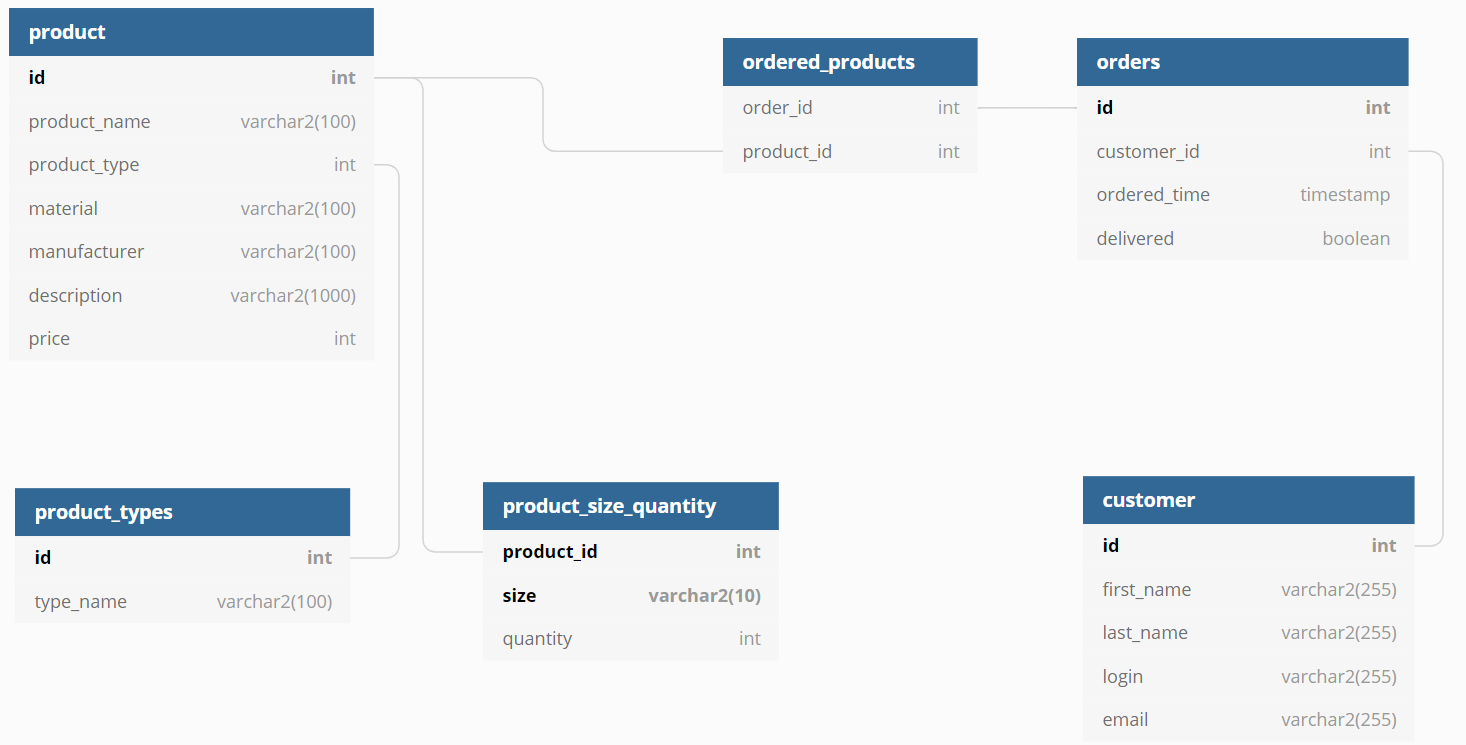
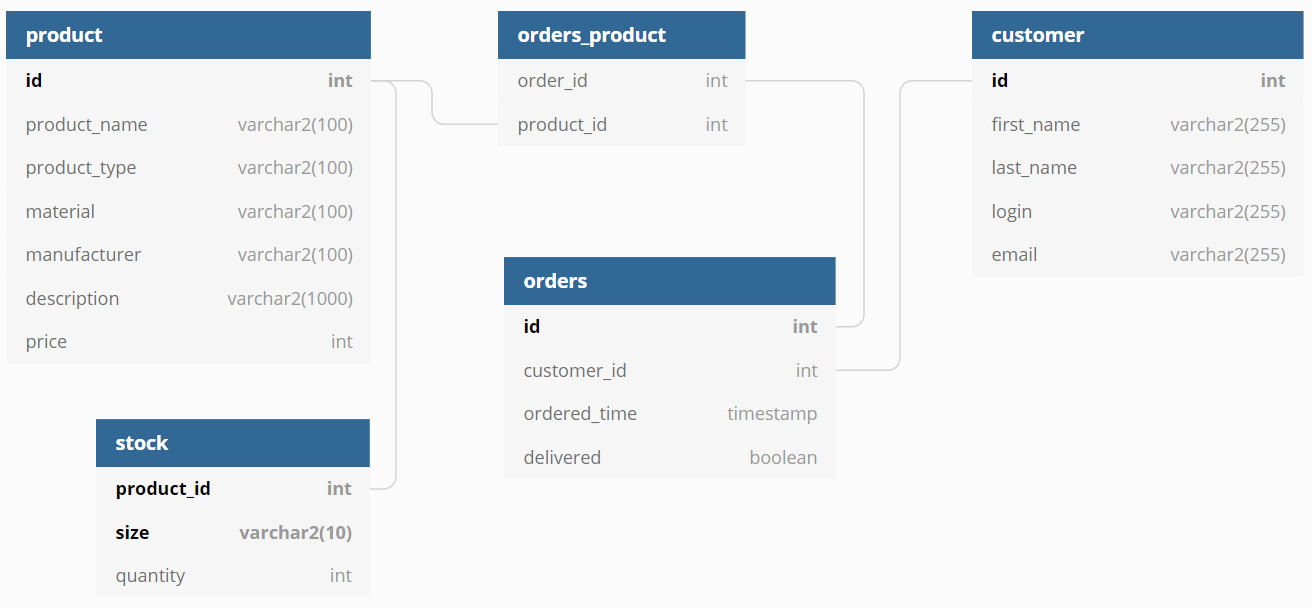
Общие изменения
Добавлен контроллер, позволяющий п р а в и л ь н о остановить приложение.

Добавлен README.

Исправлена пикча со структурой БД.

diff --git a/src/main/java/ru/study/shop/adapters/controllers/ApplicationController.java b/src/main/java/ru/study/shop/adapters/controllers/ApplicationController.java
@@ -1,0 +1,24 @@
+package ru.study.shop.adapters.controllers;
+
+import org.springframework.boot.SpringApplication;
+import org.springframework.context.ApplicationContext;
+import org.springframework.stereotype.Controller;
+import org.springframework.web.bind.annotation.GetMapping;
+import org.springframework.web.bind.annotation.RequestMapping;
+
+@Controller
+@RequestMapping("/shop/app")
+public class ApplicationController {
+
+    private static final int DEFAULT_SHUTDOWN_CODE = 0;
+    private ApplicationContext applicationContext;
+
+    public ApplicationController(ApplicationContext applicationContext) {
+        this.applicationContext = applicationContext;
+    }
+
+    @GetMapping("/shutdown")
+    public void shutdownApplication() {
+        SpringApplication.exit(applicationContext, () -> DEFAULT_SHUTDOWN_CODE);
+    }
+}

diff --git a/README.md b/README.md
@@ -1,0 +1,109 @@
+# Введение
+
+## Что это?
+
+shop-app-backend — мой pet-project, представляющий собой backend-часть интернет-магазина одежды.
+
+## А зачем?
+
+<ul>
+<li>Для получения опыта <s>какой-никакой</s> энтерпрайз-разработки;</li>
+<li>Для изучения инструментов и технологий в рамках уже существующего решения;</li>
+<li>Для возможности иметь проект, 
+    с которым можно проводить любые манипуляции и не иметь проблем с совестью;</li>
+<li><s>Для включения в резюме.</s></li>
+</ul>
+
+## Концепция
+
+За основу взята идея создания интернет-магазина одежды. Функционал приложения должен позволять:
+<ul>
+<li>получать информацию о текущем ассортименте магазина;</li>
+<li>формировать заказы на покупку;</li>
+<li>управлять складскими запасами ассортимента.</li>
+</ul>
+
+# Внутренности backend-проекта
+
+Backend-часть представляет собой небольшое приложение, созданное на Spring Boot, основной целью которого является обработка запросов на получение, сохранение и
+удаление данных.
+
+## Устройство бэкенда
+
+Общая схема приложения:
+
+<img src="src/main/resources/docs/backend_scheme.png" width="500">
+
+### Repositories
+
+Отвечают за доступ к БД и реализуют базовые CRUD-операции. Является поставщиком функционала для сервисов.
+
+У каждой ORM-сущности (см. ниже) собственный репозиторий.
+
+Код репозиториев расположен в `src/main/java/ru/study/shop/adapters/hibernate`.
+
+### Services
+
+Являются промежуточным уровнем между БД и потребителями данных. Предоставляют основной функционал для доступа к данным внутри бэкенда. Расширяют функционал
+работы с БД; методы сервисов отвечают за выполнение и откат транзакций.
+
+Каждый сервис отвечает за доступ к данным одной сущности. Например, `OrderService` предоставляет методы для работы с сущностью Order.
+
+Код интерфейсов расположен в `src/main/java/ru/study/shop/services/interfaces`, имплементаций: `src/main/java/ru/study/shop/services/impl`.
+
+### Controllers
+
+Связывают backend-часть с frontend-частью или сторонними приложениями. Предоставляют API для доступа к данным извне.
+
+В данный момент предоставляемый API не является RESTful, по сути своей является RPC
+(подробности [здесь](https://roy.gbiv.com/untangled/2008/rest-apis-must-be-hypertext-driven)).
+
+Код контроллеров расположен в `src/main/java/ru/study/shop/adapters/controllers`.
+
+## Схема базы данных
+
+Схема БД:
+
+<img src="src/main/resources/docs/DB_structure.png" width="800">
+
+|   Отношение    |                                 Описание                                 |
+| -------------- | ------------------------------------------------------------------------ |
+| product        | Содержит данные о всём ассортименте магазина;                            |
+| order          | Содержит данные о всех заказах, совершённых в магазине;                  |
+| orders_product | Промежуточная таблица, содержащая все заказанные товары и их количество; |
+| stock          | Содержит даннные о текущих запасах в магазине;                           |
+| customer       | Содержит информацию о покупателях;                                       |
+
+Простая таблица, удовлетворяющая потребности в хранении данных внутри приложения.
+
+В качестве БД для хранения данных выбрана H2 -- опенсорсная in-memory БД с возможностью доступа через консоль в браузере.
+
+Наполнение БД производится через flyway -- систему контроля версий для баз данных. Скрипты миграции расположены в `src/main/resources/db/migration`.
+
+## Схема ORM-сущностей
+
+В качестве ORM-фреймворка используется Hibernate.
+
+Схема сущностей:
+
+<img src="src/main/resources/docs/Entities.png" width="800">
+
+Нужно отметить, что в проекте в качестве первичного ключа для класса `Stock` используется не суррогатный ключ, а составной ключ с полями `Product` и `Size`; для
+этих целей был создан класс `StockId` (требование JPA).
+
+# Как попробовать?
+
+Архив с собранным проектом [здесь](https://drive.google.com/file/d/1Uf_IbBffV5ItZzc44pv5AgjUHCtekIYm/view?usp=sharing). Для запуска нужна Java версии 8 и выше.
+
+Нужно лишь разархивировать файлы в отдельную папку и запустить программу через `.bat` файл.
+
+Остановка работы приложения:
+<ul>
+<li>Для сторонников светлой силы: вбить в браузер 
+    <code>http://localhost:8080/shop/app/shutdown</code>;</li>
+<li>Для тех, кому дорого время: закрыть окно консоли с приложением.</li>
+</ul>
+
+# P.S.
+
+А frontend будет ближе к выходным.
